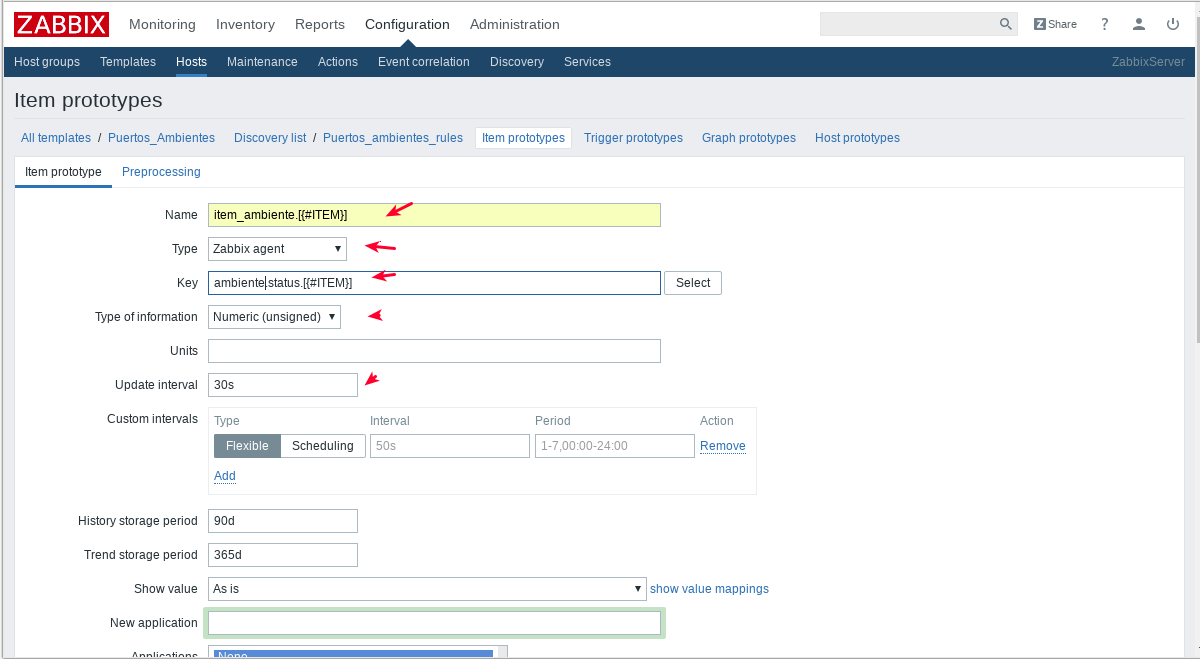
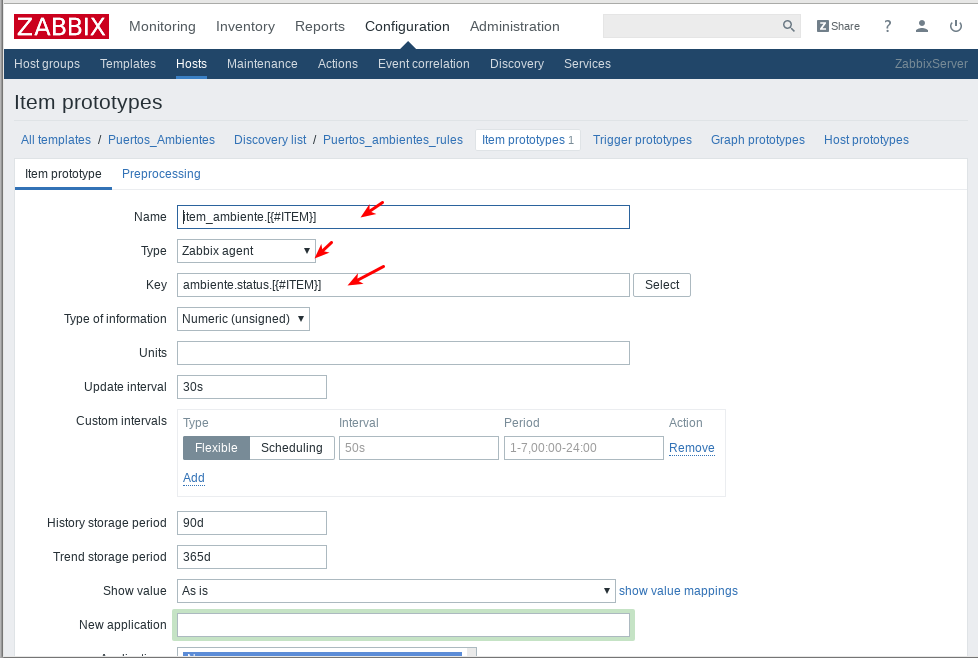
Mejoras del LLD

diff --git a/guia/LLC.rst b/guia/LLC.rst
@@ -2,13 +2,15 @@ Low Level Discovery (LLD)
 ==========================
 
 
+Low-level discovery. El descubrimiento de bajo nivel proporciona una forma de crear automáticamente elementos, disparadores y gráficos para diferentes entidades en una computadora
+
 Que es lo que se quiere descubrir
 ++++++++++++++++++++++++++++++++++
 
-Lo primero que se debe tener claro es qeu es lo que se quiere descubir y luego esa salida la tenemos que llevar a un formato JSON
-Ejemplo Queremos saber los puertos que se estan iniciando con una aplicación.
+Lo primero que se debe tener claro es, ¿que es lo que se quiere descubrir? y luego esa salida la tenemos que llevar a un formato JSON
+Ejemplo Queremos saber los puertos que se están iniciando con una aplicación.
 
-En el archivo "port_list.txt" tenemos ya almacenado un listado de los puertos que requerimos verificar, es decir, estar seguros que estan iniciados.::
+En el archivo "port_list.txt" tenemos ya almacenado un listado de los puertos que requerimos verificar, es decir, estar seguros que están iniciados (Previo hubo un script que genero este archivo).::
 
 	# cat /home/oracle/scm/port_list.txt | grep -v \# | awk '{print $1}'
 	7019
@@ -32,7 +34,7 @@ En el archivo "port_list.txt" tenemos ya almacenado un listado de los puertos qu
 	7054
 	7055
 
-Ya que tenemos una Herramienta o script que descubre los puertos, ahora debemos convertir dicha salida en un formato JSON con esta estructura.::
+Ya que tenemos un script que descubre los puertos, ahora debemos convertir dicha salida en un formato JSON con esta estructura.::
 
 	{"data":[
 		        {"{#ITEM}":"PORT1"},
@@ -69,34 +71,36 @@ Verificamos que estemos teniendo la salida requerida.::
 
 Preferiblemente el comando anterior lo colocamos en un script.::
 
-	vi /usr/local/bin/zabbix/discover-ports.sh
+	vi /usr/local/bin/zabbix/discover-ambientes.sh
+	#!/bin/bash
+	echo '{"data":[';for i in $(cat /home/oracle/scm/port_list.txt | grep -v \# | awk '{print $1}') ;do echo "{\"{#ITEM}\": \"$i\"},";done | sed  '$ s/.$//' ; echo ']}'
 
 Ejecutamos el comando y lo enviamos a un archivo temporal.::
 
-	/usr/local/bin/zabbix/discover-ports.sh > /tmp/discover_port.json
+	/usr/local/bin/zabbix/discover-ambientes.sh > /tmp/discovered_ambientes.json
 
 Ya bien identificado el comando, la creación del script y su salida en formato JSON, debemos ahora introducirlo en el agente de zabbix.
 
-En el archivo de configuración del zabbix "/etc/zabbix/zabbix_agentd.conf" debemos ubicar la siguiente linea, para saber en donde vamos a crear nuestro archivo de configuracion personalizada.::
+En el archivo de configuración del zabbix "/etc/zabbix/zabbix_agentd.conf" debemos ubicar la siguiente linea, para saber en donde vamos a crear nuestro archivo de configuración personalizada.::
 
 	Include=/etc/zabbix/zabbix_agentd.d/*.conf
 
 Procedemos a crear nuestra configuración.::
 
-	vi /etc/zabbix/zabbix_agentd.d/port_custom.conf
-	UserParameter=ambiente.discovery,cat /tmp/discover_port.json;
-	UserParameter=ambiente.status.[*],/usr/local/bin/discover_port_get.sh $1;
+	vi /etc/zabbix/zabbix_agentd.d/ambientes_custom.conf
+	UserParameter=ambiente.discovery,cat /tmp/discovered_ambientes.json;
+	UserParameter=ambiente.status.[*],/usr/local/bin/discover_ambientes_get.sh $1;
 
 Reiniciamos el agente de zabbix.::
 
 	/etc/init.d/zabbix-agent restart
 
-Obetener el status de lo descubierto
+Obtener el status de lo descubierto
 ++++++++++++++++++++++++++++++++++++++
 
-Como vimos anteriormente en el archivo "/etc/zabbix/zabbix_agentd.d/port_custom.conf" existe un script que debemos crear "/usr/local/bin/discover_port_get.sh", este script lo que hace es verificar el status del puerto.::
+Como vimos anteriormente en el archivo "/etc/zabbix/zabbix_agentd.d/ambientes_custom.conf" existe un script que debemos crear "/usr/local/bin/discover_ambientes_get.sh", este script lo que hace es verificar el status del puerto.::
 
-	# vi /usr/local/bin/discover_port_get.sh
+	# vi /usr/local/bin/discover_ambientes_get.sh
 		#!/bin/bash
 		PUERTO="$1"
 		RUNNING=$(netstat -nat | grep -v grep | grep -i listen | grep $PUERTO | wc -l)
@@ -138,13 +142,14 @@ ambiente.discovery.::
 	{"{#ITEM}": "7057"}
 	]}
 
-Ahora con el status y verificamos un puerto que este operativo y otro no
+Ahora con el status y verificamos un puerto que este operativo y otro no. El puerto 7027 NO esta operativo y el puerto 7019 esta operativo.
+
 ambiente.status.::
 
 	# zabbix_get -s 192.168.0.4 -k 'ambiente.status.[7027]'
-	0
+	  0
 	# zabbix_get -s 192.168.0.4 -k 'ambiente.status.[7019]'
-	1
+	  1
 
 
 Crear el Template
@@ -164,13 +169,13 @@ Creamos el template.
 .. figure:: ../images/llc/01.png
 
 
-Llenamos los campos "Template name", "Visible name", asignamos el grupo de "Template" y pulsamos el botón "Add"
+Llenamos los campos "Template name", "Visible name", asignamos el grupo de "Template" y pulsamos el botón "Add". Importante tomar en cuenta los intervalos y esto depende de nuestro criterio.
 
 
 .. figure:: ../images/llc/02.png
 
 
-Se agrega el Template creado por nosotros.
+Se Ingresa al Template creado por nosotros.
 
 
 .. figure:: ../images/llc/03.png
@@ -208,7 +213,7 @@ En el mismo Template creado por nosotros, pulsamos sobre el link "Item prototype
 .. figure:: ../images/llc/07.png
 
 
-Llenamos los campos "Name", "Visible name", "Type", "Key" y pulsamos el botón "Add"
+Llenamos los campos "Name", "Visible name", "Type", "Key" y pulsamos el botón "Add". Importante tomar en cuenta los intervalos y esto depende de nuestro criterio.
 
 
 .. figure:: ../images/llc/08.png
@@ -240,7 +245,7 @@ Nos vamos a cada uno de los HOST que necesitamos tenga el Template creado por no
 .. figure:: ../images/llc/11.png
 
 
-En "Configuration" "HOSTS" observamos como el servidor que tiene 3 Discovery rules solo tiene 75 Items
+En "Configuration" "HOSTS" observamos como el servidor que tiene 3 Discovery rules y solo tiene 75 Items
 
 
 .. figure:: ../images/llc/12.png
@@ -252,7 +257,7 @@ Luego de esperar un rato podemos observar como el mismo servidor que tenia 3 Dis
 .. figure:: ../images/llc/13.png
 
 
-Y podemos ahora ver en los Items del servidor como fueron agregados los Item discoverd.
+Y podemos ahora ver en los Items del servidor como fueron agregados los Item discovered.
 
 
 .. figure:: ../images/llc/14.png
